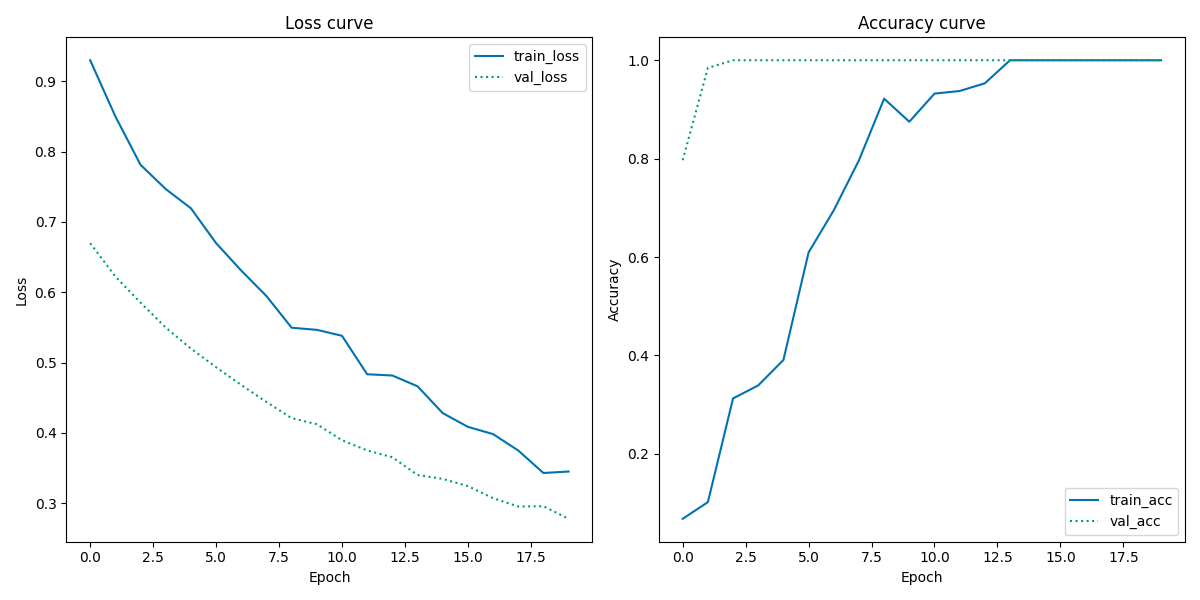
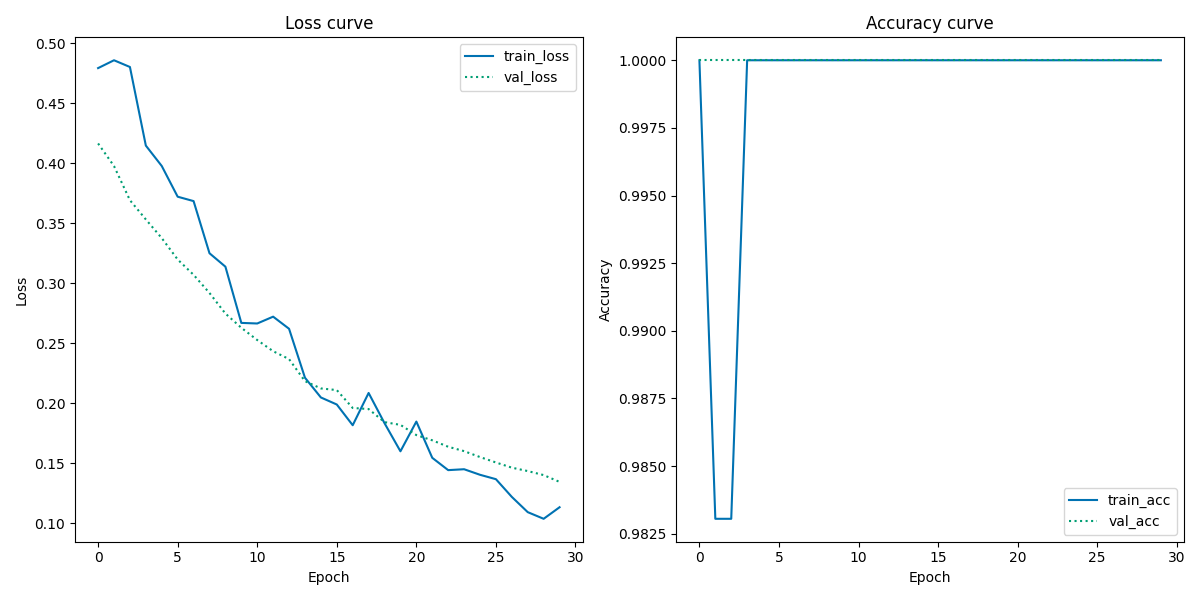
really really bad models

diff --git a/src/skin_cancer_classifier_VGG16.py b/src/skin_cancer_classifier_VGG16.py
@@ -62,12 +62,11 @@ test_df = dt.test_df
 
 #################### Prepping variables ####################
 
-#data_directory = os.path.join(os.getcwd(), "skin_data")
 batch_size = 64
 img_height = 180
 img_width = 180
 target_size = (180,180)
-n_epochs = 20
+n_epochs = 30
 
 #################### Data generator ####################
 
@@ -176,12 +175,15 @@ class1 = Dense(256,
 class2 = Dense(128, 
             activation="relu")(class1)
 
-# 2nd layer               
-class3 = Dense(70, 
+# 3rd layer               
+class3 = Dense(90, 
             activation="relu")(class2)
+# 4th layer               
+class4 = Dense(30, 
+            activation="relu")(class3)
 # output layer    
 output = Dense(1, # only 1 output (either 0 or 1)
-            activation="sigmoid")(class3) # sigmoid 
+            activation="sigmoid")(class4) # sigmoid 
 
 # define new model
 model = Model(inputs=model.inputs, 
